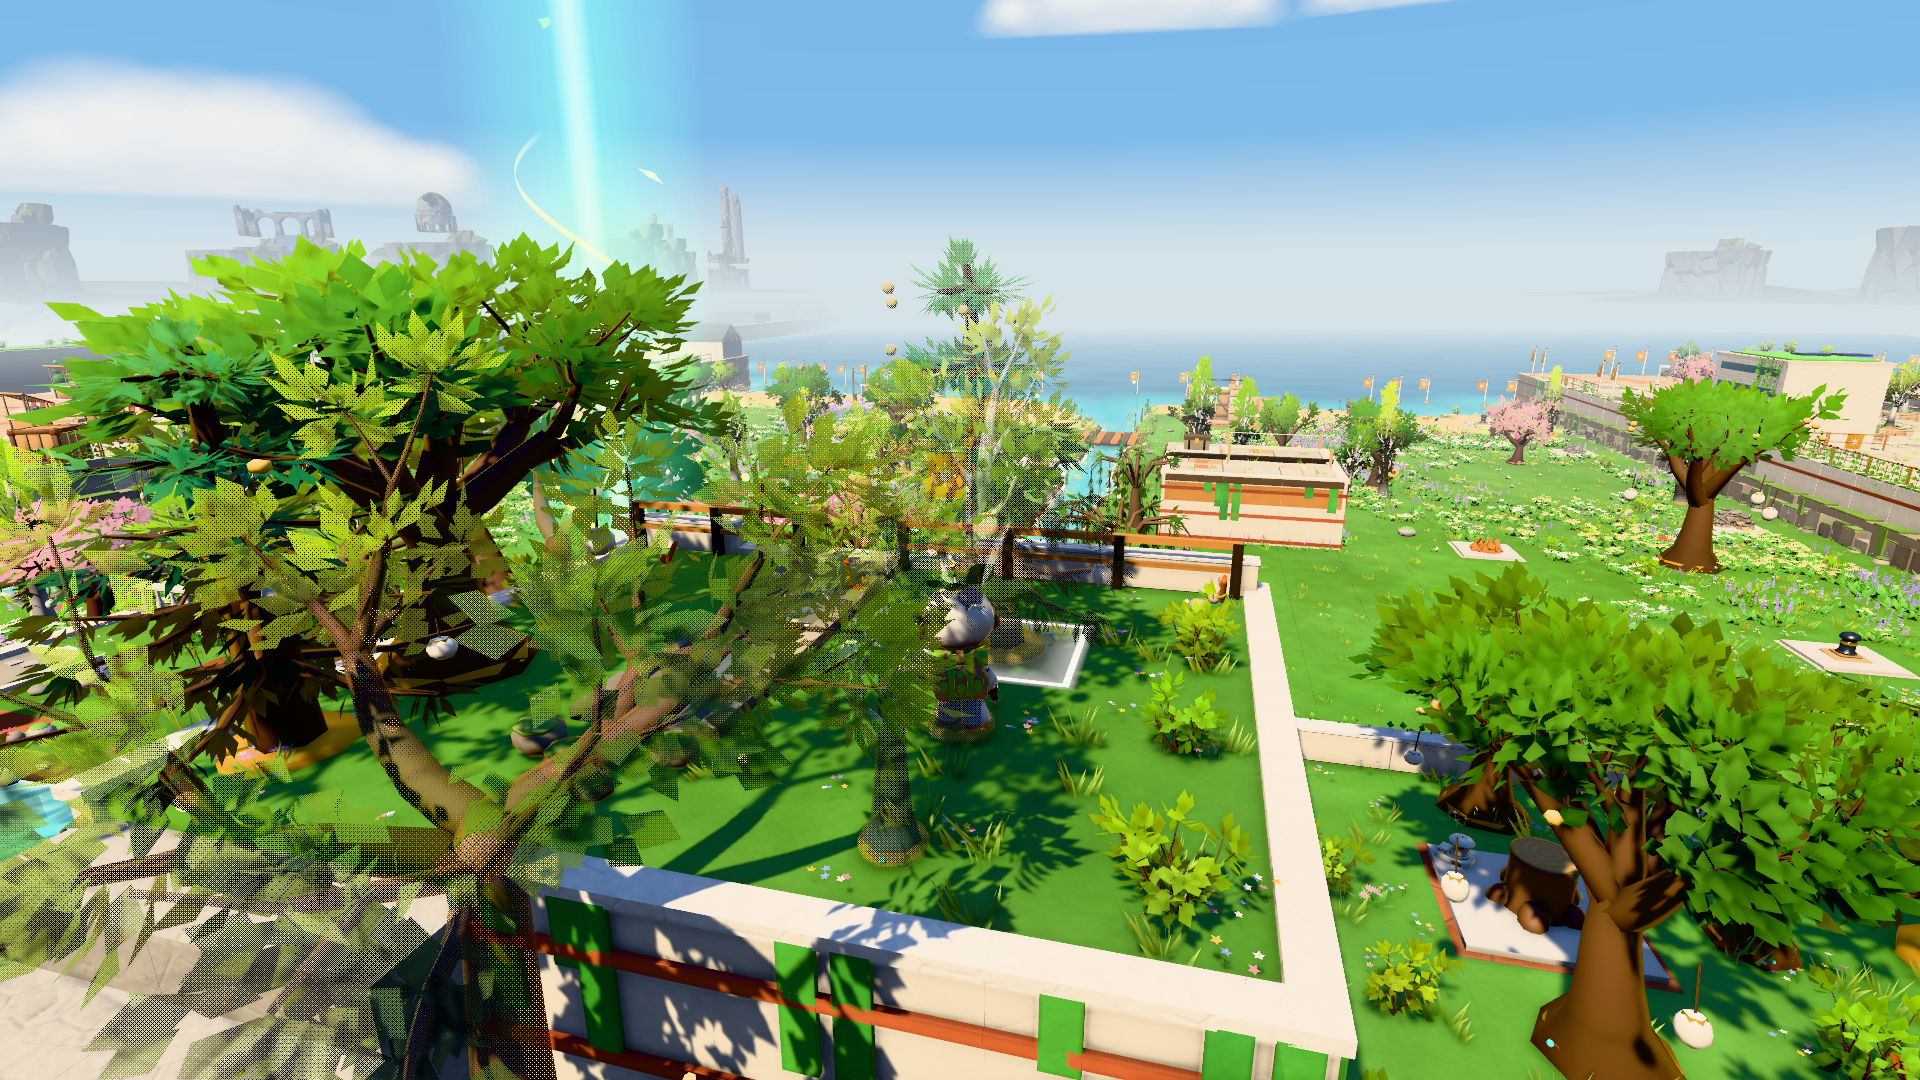
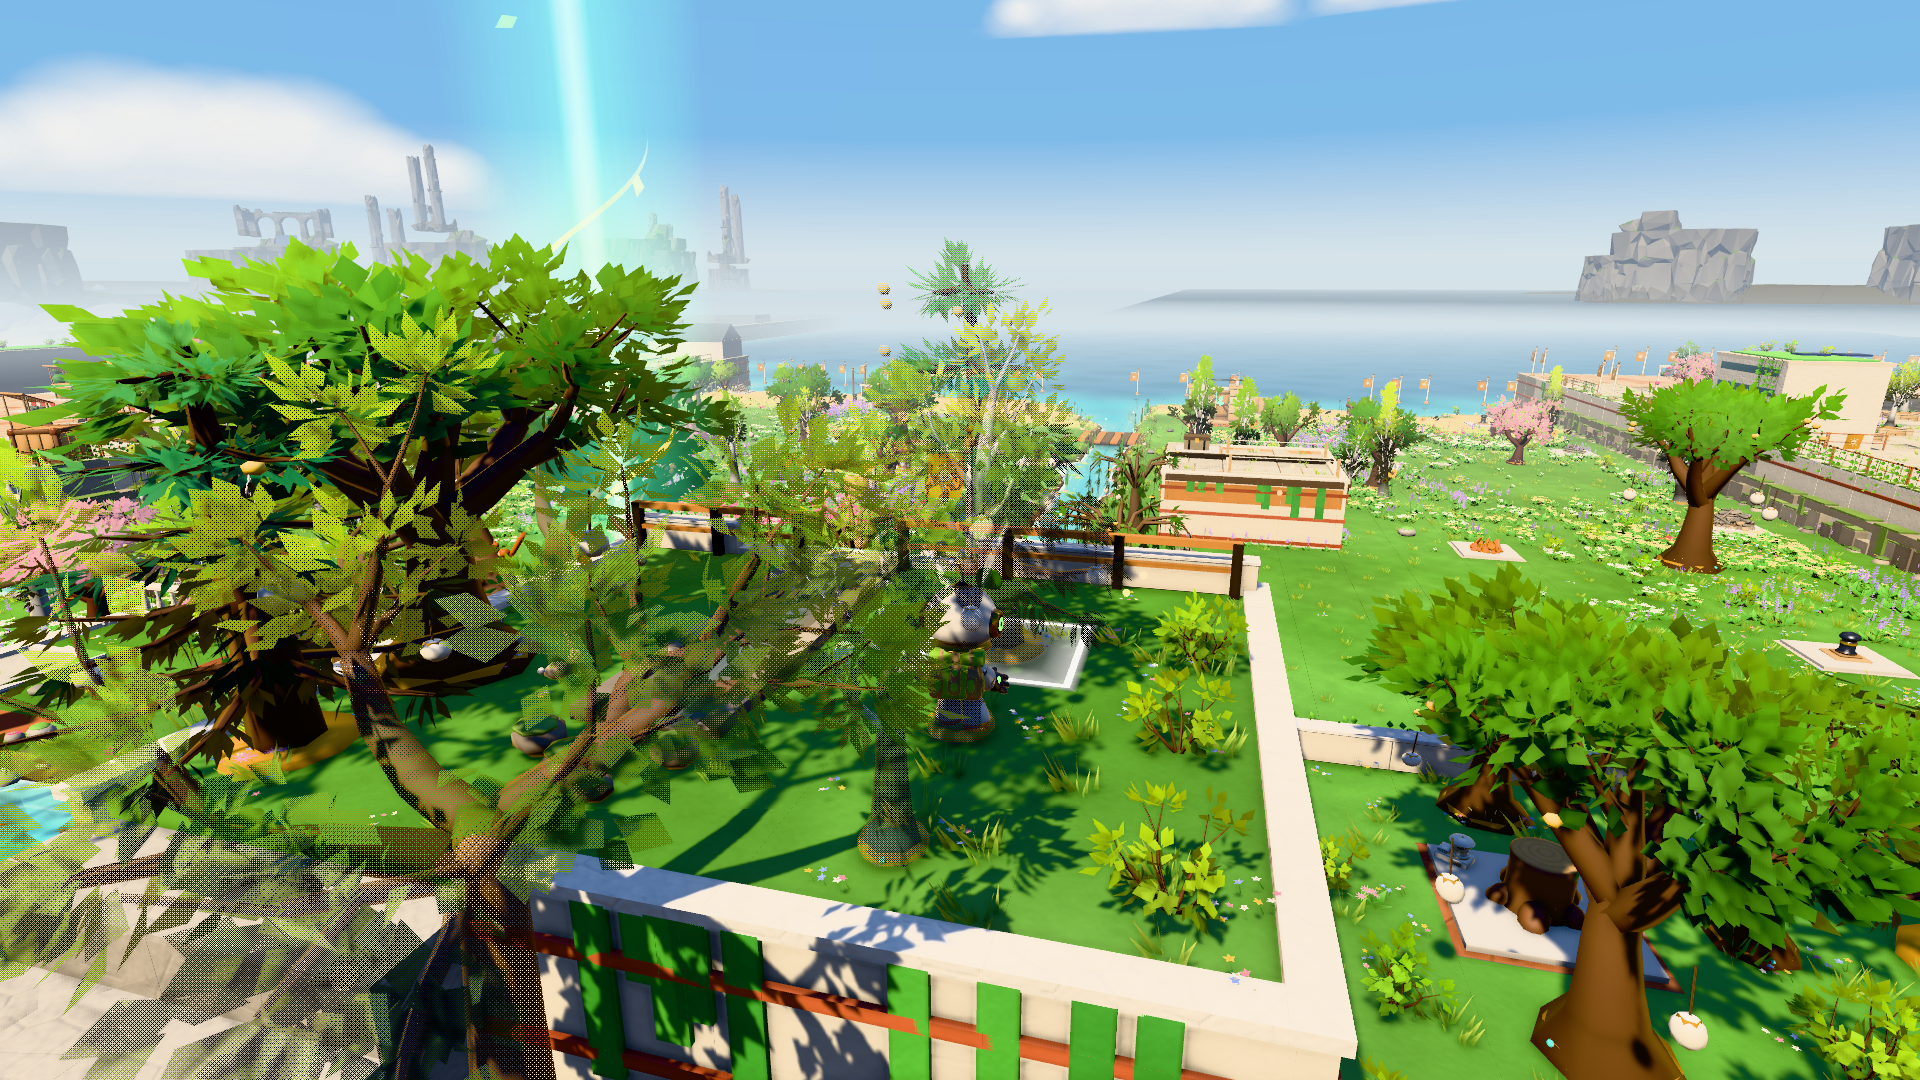
P7-E32 polish (owner's screenshot): no gap under the ruins from a raised camera; solar frames on the ground
- The sea apron: a flat ring at sea level under the near band's slices (110-560 from the
  centre), wholly haze at its inner edge (where the drawn sea has dissolved) darkening to the
  coasts' own fade at their feet. From up high the drawn sea ends ~100 units out and the coasts
  stand far beyond; the band of sky haze between them made the ruins hover. The world's sea
  hides the apron wherever the sea is drawn.
- Inland is now judged at the far edge of the drawn world (80-110 out): from a raised camera
  the view crosses land and still meets the sea there, and then the coasts keep their feet.
- Solar frames never stand on a mesa's top (a tower instead), are gone from the near band and
  drawn at 0.6x, so their column reads.
- docs/review/p7/e32-polish/late-day-overlook.png: the owner's raised view, seaward.

Claude-Session: https://claude.ai/code/session_01SpBr3Rm1x1V6CnjzxJTKmo

diff --git a/src/rendering/Ruins.ts b/src/rendering/Ruins.ts
@@ -33,6 +33,21 @@ export class Geo {
   nrm: number[] = [];
   alb: number[] = [];
   lamp: number[] = [];
+  /** P7-E32 polish: extra fade toward the horizon colour per vertex (the sea apron's), 0 for everything else */
+  xf: number[] = [];
+
+  /** A flat, up-facing quad with its own extra fade at each corner (the sea apron). */
+  flat(pts: V3[], xf: number[], col: V3) {
+    const base = this.pos.length / 3;
+    pts.forEach((p, i) => {
+      this.pos.push(p[0], p[1], p[2]);
+      this.nrm.push(0, 1, 0);
+      this.alb.push(col[0], col[1], col[2]);
+      this.lamp.push(0);
+      this.xf.push(xf[i]);
+    });
+    this.idx.push(base, base + 2, base + 1, base, base + 3, base + 2);
+  }
   idx: number[] = [];
 
   /** A planar (or nearly) convex polygon, wound so it faces away from `inside`. */
@@ -58,6 +73,7 @@ export class Geo {
       this.nrm.push(n[0], n[1], n[2]);
       this.alb.push(col[0], col[1], col[2]);
       this.lamp.push(lamp);
+      this.xf.push(0);
     }
     for (let i = 1; i < pts.length - 1; i++) this.idx.push(base, base + i, base + i + 1);
   }
@@ -127,8 +143,10 @@ const C = {
 
 /**
  * P7-E32 polish: does the view from (x, z) toward (tx, tz) cross inland ground within the world's reach (the Old City's
- * land or the mainland, whose terraces, trees and fogged chunks hide the distant coasts' feet)? Two of three rays across
- * the slice must cross it, sampled every 10 units out to 110 (about where the world stops being drawn).
+ * land or the mainland, whose terraces, trees and fogged chunks hide the distant coasts' feet)? What counts is the far
+ * edge of the drawn world (80–110 units out), where it meets the haze: land there hides the coasts' feet, while sea
+ * there (from a raised camera, even past land nearer by) leads on to the sea apron and the coasts. Two of three rays
+ * across the slice must find land there.
  */
 export function inlandToward(x: number, z: number, tx: number, tz: number): boolean {
   const base = Math.atan2(tx - x, tz - z);
@@ -137,7 +155,7 @@ export function inlandToward(x: number, z: number, tx: number, tz: number): bool
     const a = base + off;
     const dx = Math.sin(a);
     const dz = Math.cos(a);
-    for (let d = 20; d <= 110; d += 10) {
+    for (let d = 80; d <= 110; d += 10) {
       const cx = Math.floor((x + dx * d) / CHUNK);
       const cz = Math.floor((z + dz * d) / CHUNK);
       if (isMainlandChunk(cx) || (inOldCity(cx, cz) && !isSeaChunk(cx, cz))) {
@@ -295,13 +313,36 @@ export class RuinPlanner {
           };
           let kind = this.pickKind(name);
           for (let i = 0; i < 4 && kind === last; i++) kind = this.pickKind(name); // never the same piece side by side
+          // a solar frame's column needs ground under it, never a mesa's rough top
+          if (kind === 'mFrame' && sp.mesa !== undefined) kind = 'mTower';
           last = kind;
           const model = M && MODEL_OF[kind] ? M[MODEL_OF[kind]!] : undefined;
           if (model) {
             const along = kind === 'mAqueduct' || kind === 'mFrame';
-            this.model(g, model, f, L.model * this.range(0.75, 1.3), along ? this.range(-0.4, 0.4) : this.rnd() * Math.PI * 2);
+            const sc = L.model * this.range(0.75, 1.3) * (kind === 'mFrame' ? RUINS.frameScale : 1);
+            this.model(g, model, f, sc, along ? this.range(-0.4, 0.4) : this.rnd() * Math.PI * 2);
             if (kind !== 'mFrame') lamp(f.at(0, model.box[4] * L.model * 0.4, model.box[5] * L.model * 0.8));
           } else this.structure(PROCEDURAL_OF[kind] ?? kind, g, f, L.scale * this.range(0.8, 1.2), lamp);
+        }
+      }
+      // P7-E32 polish (owner): the sea apron, a flat ring at sea level under the near band's slices, from just past the
+      // island out under every coast. Seen from up high, the drawn sea ends ~100 units out and the coasts stand far
+      // beyond; without it a band of the sky's haze showed between them and the ruins hovered. Its inner edge is the
+      // haze itself (where the drawn sea has dissolved), darkening to the coasts' own fade at their feet; the world's
+      // sea hides it wherever the sea is drawn
+      if (name === 'near') {
+        const A = RUINS.apron;
+        const xfAt = (r: number) =>
+          r <= A.radii[0] ? 1 : r <= L.radius[0] ? 1 + (A.coastFade - 1) * ((r - A.radii[0]) / (L.radius[0] - A.radii[0])) : A.coastFade + (A.farFade - A.coastFade) * Math.min(1, (r - L.radius[0]) / (A.radii[A.radii.length - 1] - L.radius[0]));
+        const col = lin(A.colour);
+        for (let d = 0; d < 360; d += A.step) {
+          const e = d + A.step;
+          const pt = (deg: number, r: number): V3 => [cx + r * Math.sin(toRad(deg)), A.y, cz + r * Math.cos(toRad(deg))];
+          for (let k = 0; k < A.radii.length - 1; k++) {
+            const r0 = A.radii[k];
+            const r1 = A.radii[k + 1];
+            geos[sectorOf(d + A.step / 2)].flat([pt(d, r0), pt(e, r0), pt(e, r1), pt(d, r1)], [xfAt(r0), xfAt(r0), xfAt(r1), xfAt(r1)], col);
+          }
         }
       }
       geos.forEach((geo, sector) => out.push({ layer: li, sector, geo, fade: L.fade }));
@@ -335,6 +376,7 @@ export class RuinPlanner {
       g.nrm.push(n[0], n[1], n[2]);
       g.alb.push(m.col[i], m.col[i + 1], m.col[i + 2]);
       g.lamp.push(0);
+      g.xf.push(0);
     }
     // the frame swaps handedness (u along the coast, w inward): flip the winding so the faces still face out
     const flip = dot(cross(f.t, [0, 1, 0]), f.n) < 0;
@@ -630,7 +672,7 @@ vec3 getWorldPosition() {
 export class Ruins {
   readonly layer: pc.Layer;
   readonly root: pc.Entity;
-  private meshes: { mesh: pc.Mesh; mi: pc.MeshInstance; e: pc.Entity; dir: [number, number]; band: number; at: [number, number]; inland: boolean; nrm: Float32Array; alb: Float32Array; y: Float32Array; lamp: Float32Array; fade: number; cols: Uint8Array }[] = [];
+  private meshes: { mesh: pc.Mesh; mi: pc.MeshInstance; e: pc.Entity; dir: [number, number]; band: number; at: [number, number]; inland: boolean; nrm: Float32Array; alb: Float32Array; y: Float32Array; lamp: Float32Array; xf: Float32Array; fade: number; cols: Uint8Array }[] = [];
   private sig: number[] = [];
   /** E23.7.2: the weather's view (1 clear … less in fog and rain): the ruins fade out with it */
   view = 1;
@@ -718,6 +760,7 @@ export class Ruins {
         alb: Float32Array.from(g.alb),
         y: Float32Array.from({ length: n }, (_, i) => g.pos[i * 3 + 1]),
         lamp: Float32Array.from(g.lamp),
+        xf: Float32Array.from(g.xf),
         fade: b.fade,
         cols: new Uint8Array(n * 4),
       });
@@ -810,7 +853,7 @@ export class Ruins {
       for (let i = 0; i < n; i++) {
         const nd = Math.max(0, m.nrm[i * 3] * sunDir[0] + m.nrm[i * 3 + 1] * sunDir[1] + m.nrm[i * 3 + 2] * sunDir[2]);
         const hf = HF.strength * Math.exp(-Math.max(0, m.y[i]) / HF.height);
-        let f = 1 - (1 - fb) * (1 - hf);
+        let f = 1 - (1 - fb) * (1 - hf) * (1 - m.xf[i]);
         f = 1 - (1 - f) * view * view;
         const lamp = m.lamp[i] * lampOn;
         for (let c = 0; c < 3; c++) {

diff --git a/tests/p7-ruins.test.ts b/tests/p7-ruins.test.ts
@@ -42,6 +42,7 @@ describe('P7-E32 ruined skyline', () => {
     for (const b of built) {
       const p = b.geo.pos;
       for (let i = 0; i < p.length; i += 3) {
+        if (b.geo.xf[i / 3] > 0) continue; // the sea apron runs under everything (see below)
         const d = Math.hypot(p[i] - RUINS.centre[0], p[i + 2] - RUINS.centre[1]);
         expect(d).toBeGreaterThan(190); // the Old City island reaches ~145 from its centre at the corners
         verts++;
@@ -113,6 +114,7 @@ describe('P7-E32 ruined skyline', () => {
         tris += x.geo.idx.length / 3;
         const p = x.geo.pos;
         for (let i = 0; i < p.length; i += 3) {
+          if (x.geo.xf[i / 3] > 0) continue; // the sea apron
           minD = Math.min(minD, Math.hypot(p[i] - RUINS.centre[0], p[i + 2] - RUINS.centre[1]));
           if (x.layer > 0) {
             const br = bearing(p[i], p[i + 2]);
@@ -138,5 +140,30 @@ describe('P7-E32 polish: inland slices', () => {
     expect(inlandToward(0, 40, 8, -400)).toBe(true); // north across the island
     expect(inlandToward(-3.75, 30.5, -3.75, 500)).toBe(false); // due south over the sea
     expect(inlandToward(-3.75, 30.5, 400, 0)).toBe(true); // east: the island, then the mainland
+  });
+});
+
+describe('P7-E32 polish: the sea apron', () => {
+  it('is a flat ring just under sea level, wholly haze at its inner edge, darkening toward the coasts', () => {
+    const b = new RuinPlanner().build();
+    let n = 0;
+    let inner = 0;
+    for (const x of b)
+      for (let i = 0; i < x.geo.xf.length; i++) {
+        const xf = x.geo.xf[i];
+        if (xf <= 0) continue;
+        n++;
+        expect(x.layer).toBe(2);
+        expect(x.geo.pos[i * 3 + 1]).toBeLessThan(0);
+        expect(xf).toBeLessThanOrEqual(1);
+        const r = Math.hypot(x.geo.pos[i * 3] - RUINS.centre[0], x.geo.pos[i * 3 + 2] - RUINS.centre[1]);
+        if (r < RUINS.apron.radii[0] + 1) {
+          inner++;
+          expect(xf).toBeCloseTo(1, 5);
+        }
+        if (Math.abs(r - RUINS.layers[2].radius[0]) < 1) expect(xf).toBeCloseTo(RUINS.apron.coastFade, 5);
+      }
+    expect(n).toBeGreaterThan(1000);
+    expect(inner).toBeGreaterThan(0);
   });
 });

diff --git a/src/data/ruins.ts b/src/data/ruins.ts
@@ -61,7 +61,7 @@ export const RUINS = {
     // only chunky procedural ones (blocks, solid towers, aqueducts) far out and one turbine now and then mid-distance
     far: { mTower: 3, mDome: 2, mAqueduct: 1, block: 2, tower: 1 },
     mid: { mAqueduct: 3, mTower: 3, mDome: 2, mFrame: 1, turbine: 0.4 },
-    near: { mAqueduct: 3, mTower: 3, mDome: 2, mFrame: 1 },
+    near: { mAqueduct: 3, mTower: 3, mDome: 2 },
   } as Record<'far' | 'mid' | 'near', Partial<Record<RuinKind, number>>>,
   /**
    * The authored cliff mesas the ruins stand on, per band: one every `every`° of coast (`twins` of them in a pair, a
@@ -112,6 +112,14 @@ export const RUINS = {
    * The ruined districts: the structures stand in clusters about `every`° apart (a range), each `width`° wide, with
    * open sky between them; mesas between the districts stand bare
    */
+  /** the solar frames' scale against the band's model scale (their column has to read; owner) */
+  frameScale: 0.6,
+  /**
+   * The sea apron (Ruins: a flat ring at sea level under the coasts): radii from the island's centre, `step`° slices,
+   * its colour, and its extra fade toward the horizon colour: whole at the inner radius (where the drawn sea has
+   * dissolved into the haze), `coastFade` at the near coasts' feet, `farFade` at the outer edge
+   */
+  apron: { radii: [110, 160, 215, 280, 360, 470, 560], step: 5, y: -0.3, colour: '#4d7a93', coastFade: 0.35, farFade: 0.8 },
   districts: { every: [24, 36] as [number, number], width: 11 },
   /**
    * Golden hour: the near and mid bands' sun-facing sides take this much more of the (warm) key light as the dusk
